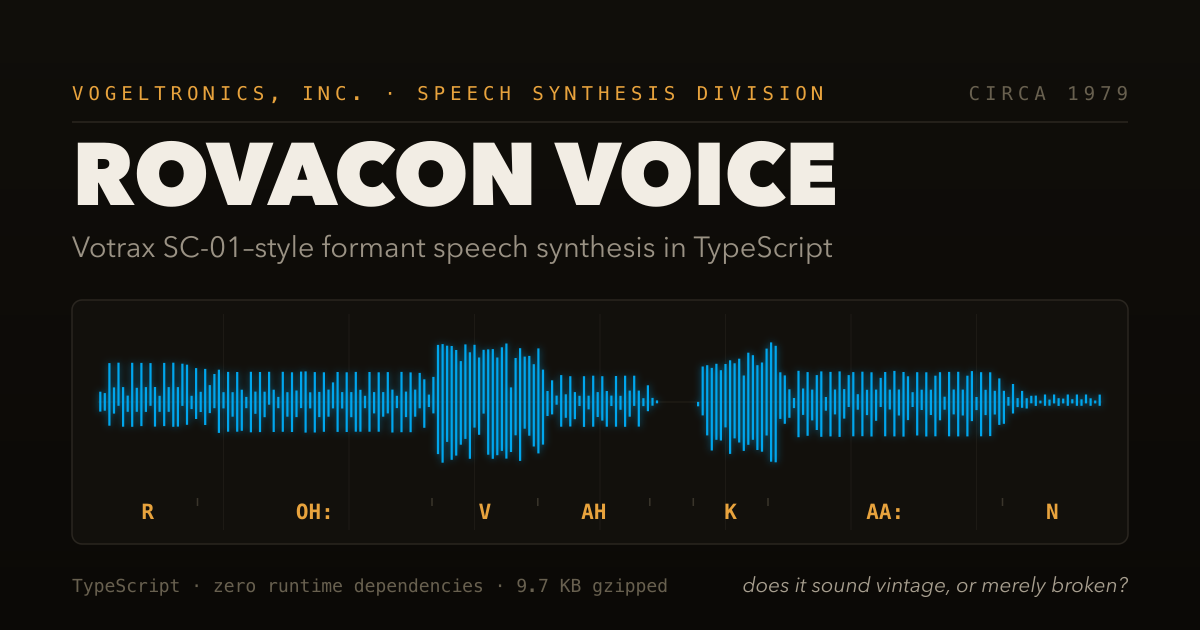
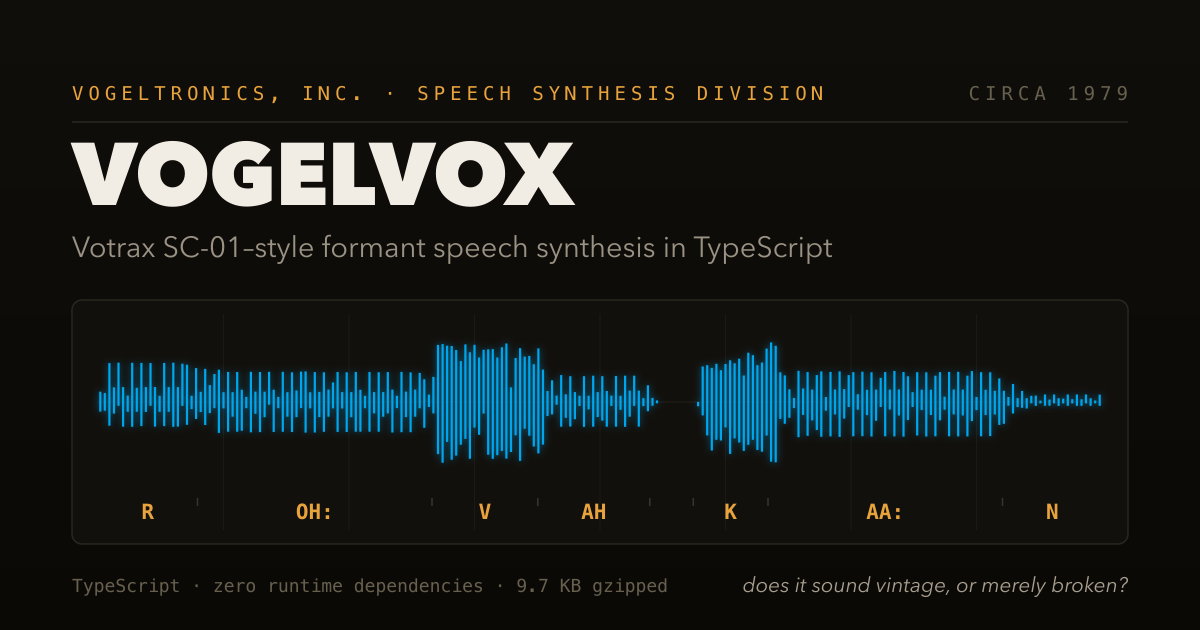
Rename voice component from Rovacon Voice to VogelVox
Follows the GitHub repo rename to vogeltronics-vogel-vox. Renames this
component's own name and slug across the docs and the tuning-bench page:

- README, CHANGELOG, index.html: "Rovacon Voice" -> VogelVox; slug
  rovacon-voice -> vogel-vox; live bench -> vogel-vox.netlify.app;
  package import -> @vogel-vox/voice; og:url / og:image / twitter:image
  updated to the new host.
- Social card (public/og.svg + regenerated public/og.png): title
  ROVACON VOICE -> VOGELVOX.
- CHANGELOG: new Changed entry recording the rename.

The parent Rovacon project (design suite + toy rover), its
github.com/cschweda/rovacon links, and the spoken ROVACON utterance are
deliberately left unchanged.

Changed region(s): [[0.0617, 0.2111, 0.7092, 0.3317]]

diff --git a/index.html b/index.html
@@ -3,17 +3,17 @@
 <head>
 <meta charset="utf-8">
 <meta name="viewport" content="width=device-width,initial-scale=1">
-<title>Rovacon Voice Tuning Bench</title>
+<title>VogelVox Tuning Bench</title>
 <meta name="description" content="Votrax SC-01&ndash;style formant speech synthesis in TypeScript. Type a phrase, hear 1980 arcade speech, export WAV.">
 <meta property="og:type" content="website">
-<meta property="og:url" content="https://rovacon-voice.netlify.app/">
-<meta property="og:title" content="Rovacon Voice Tuning Bench">
+<meta property="og:url" content="https://vogel-vox.netlify.app/">
+<meta property="og:title" content="VogelVox Tuning Bench">
 <meta property="og:description" content="Votrax SC-01&ndash;style formant speech synthesis in TypeScript. Type a phrase, hear 1980 arcade speech, export WAV.">
-<meta property="og:image" content="https://rovacon-voice.netlify.app/og.png">
+<meta property="og:image" content="https://vogel-vox.netlify.app/og.png">
 <meta property="og:image:width" content="1200">
 <meta property="og:image:height" content="630">
 <meta name="twitter:card" content="summary_large_image">
-<meta name="twitter:image" content="https://rovacon-voice.netlify.app/og.png">
+<meta name="twitter:image" content="https://vogel-vox.netlify.app/og.png">
 <link rel="stylesheet" href="/src/bench/bench.css">
 </head>
 <body>
@@ -21,7 +21,7 @@
 <header>
   <div class="brand">
     <span class="vogeltronics">VogelTronics</span>
-    <h1>Rovacon Voice Tuning Bench</h1>
+    <h1>VogelVox Tuning Bench</h1>
   </div>
   <p class="sub">Votrax SC-01 style formant synthesis &middot;
      resolving <b>VQ-01</b>: does this sound vintage, or merely broken?</p>

diff --git a/README.md b/README.md
@@ -1,6 +1,6 @@
 <p align="center">
   <img src="public/og.png" width="820"
-       alt="Rovacon Voice — the real waveform of the synthesizer saying ROVACON, annotated with its phoneme string R OH: V AH K AA: N">
+       alt="VogelVox — the real waveform of the synthesizer saying ROVACON, annotated with its phoneme string R OH: V AH K AA: N">
 </p>
 
 <p align="center">
@@ -13,12 +13,12 @@
 </p>
 
 <p align="center">
-  <b>Live bench: <a href="https://rovacon-voice.netlify.app/">rovacon-voice.netlify.app</a></b>
+  <b>Live bench: <a href="https://vogel-vox.netlify.app/">vogel-vox.netlify.app</a></b>
 </p>
 
-# Rovacon Voice — Design Document & Tuning Bench
+# VogelVox — Design Document & Tuning Bench
 
-**Rovacon Voice is a zero-dependency TypeScript recreation of Votrax
+**VogelVox is a zero-dependency TypeScript recreation of Votrax
 SC-01-class formant speech synthesis — the chip that voiced Gorf, Wizard of
 Wor, and Q*bert — small enough to ship inside a game at 9.7 KB gzipped.** Type any
 phrase into the browser tuning bench, hear it rendered as 1980 arcade speech
@@ -355,7 +355,7 @@ one reason plosives read cleaner than the SC-01's did.
 ### 5.1 Structure
 
 ```
-rovacon-voice/
+vogel-vox/
 ├── index.html                 tuning bench page
 ├── netlify.toml               deploy config + H3 security headers
 ├── public/                    og social card (real synth output)
@@ -383,7 +383,7 @@ rovacon-voice/
 The main Rovacon repo consumes a narrow API:
 
 ```ts
-import { VoicePlayer } from '@rovacon/voice';
+import { VoicePlayer } from '@vogel-vox/voice';
 
 const voice = new VoicePlayer();
 await voice.init(audioContext);      // from a user gesture
@@ -454,7 +454,7 @@ Measured separation now:
 
 ## 6. The Tuning Bench
 
-Hosted at **<https://rovacon-voice.netlify.app/>** — or run it locally:
+Hosted at **<https://vogel-vox.netlify.app/>** — or run it locally:
 
 ```bash
 pnpm install

diff --git a/CHANGELOG.md b/CHANGELOG.md
@@ -23,7 +23,7 @@ versioning follows [SemVer](https://semver.org/spec/v2.0.0.html).
 - `LICENSE` (MIT), `.nvmrc` (Node 22), and `netlify.toml` (build config,
   hashed-asset caching, and the H3 security headers) for the Netlify
   deploy.
-- Live deployment: <https://rovacon-voice.netlify.app/>. The og/twitter
+- Live deployment: <https://vogel-vox.netlify.app/>. The og/twitter
   image tags in `index.html` now use the absolute URL, plus `og:url`.
 - **Classics reel** (`src/voice/classics.ts` + bench panel): twelve
   hand-transcribed impressions of golden-age arcade voices — Gorf ×4,
@@ -43,6 +43,13 @@ versioning follows [SemVer](https://semver.org/spec/v2.0.0.html).
 
 ### Changed
 
+- **Renamed the voice component from "Rovacon Voice" to VogelVox
+  (2026-07-20).** New slug `vogel-vox`; live bench at
+  <https://vogel-vox.netlify.app/>; package `@vogel-vox/voice`; repo now
+  <https://github.com/cschweda/vogeltronics-vogel-vox>. The parent Rovacon
+  project (design suite + toy rover) and the spoken `ROVACON` utterance keep
+  their names. Social card (`public/og.svg` → `public/og.png`) regenerated
+  with the new title.
 - **Stair-fall silence rule reversed by owner decision (2026-07-18).**
   Doc 10 §3B.5 gave the stair fall silence, and a test enforced it; the
   toy now says `OUCH, THAT HURTS` after the withering bloop, lowest
